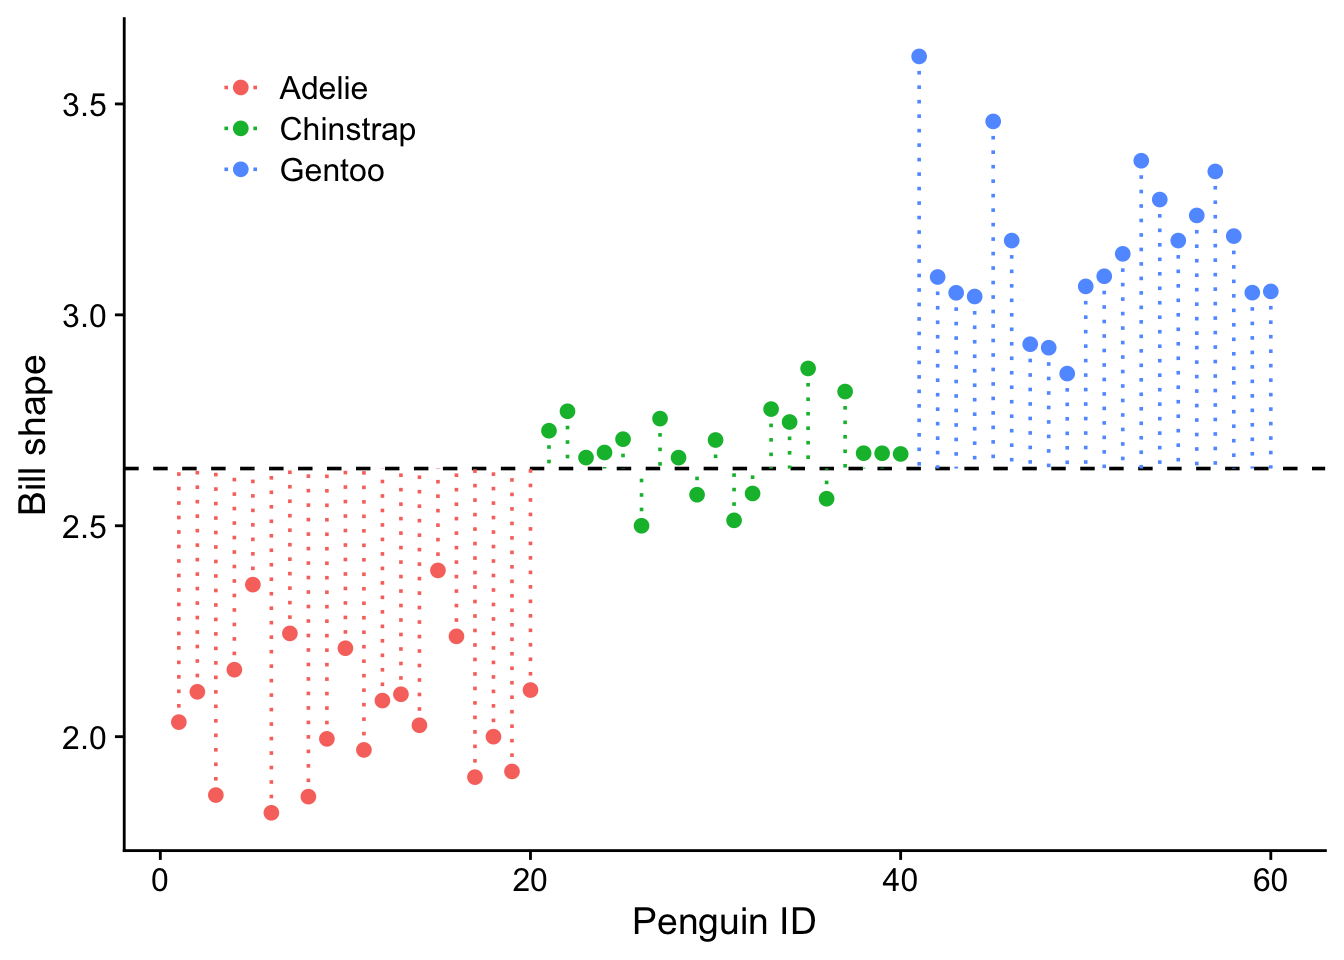
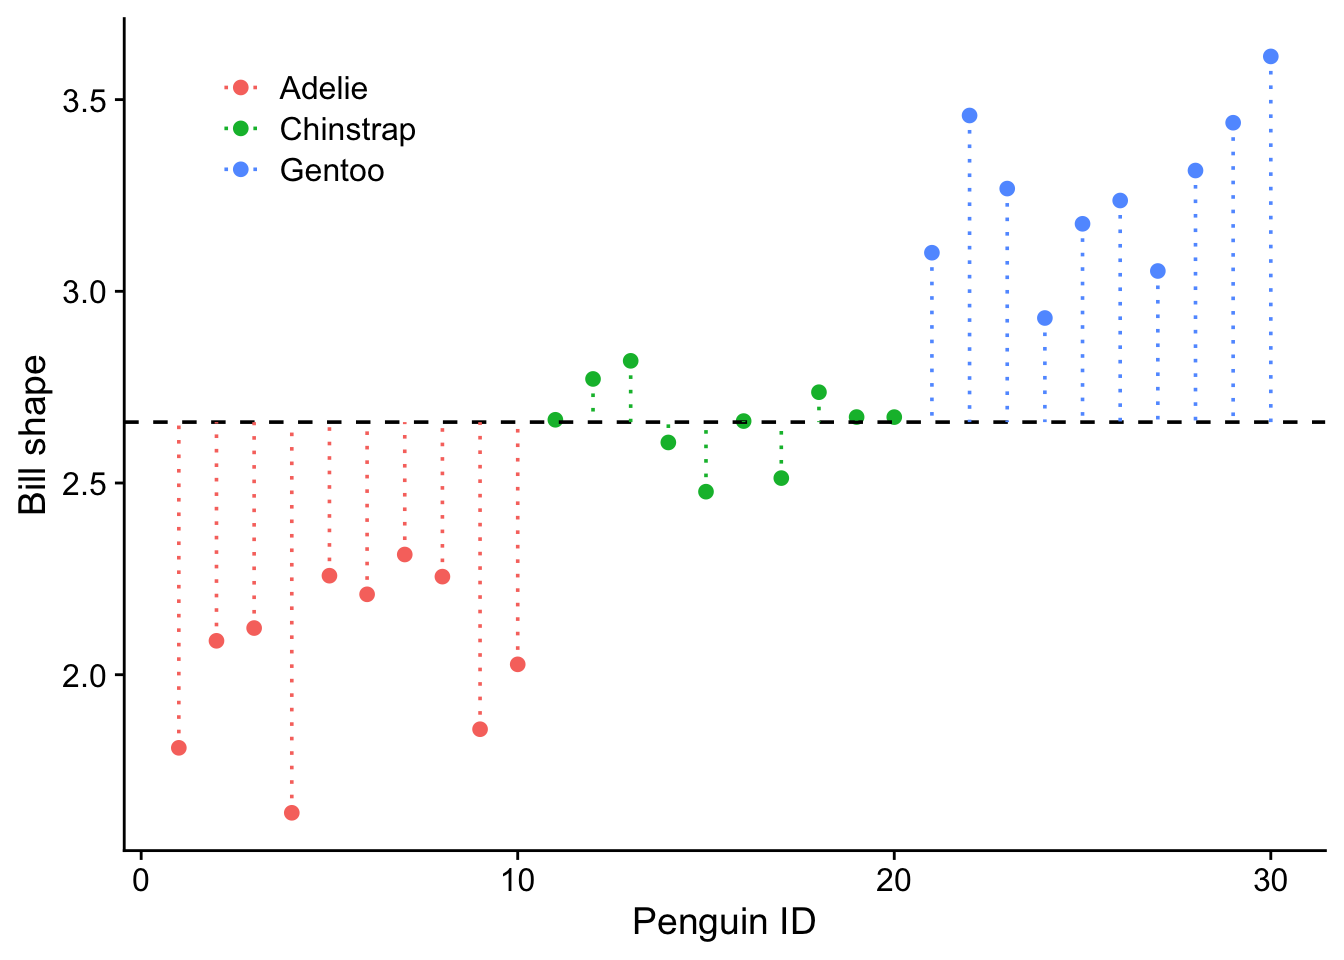
rebuild

diff --git a/docs/ANOVA_how_it_works_penguins.html b/docs/ANOVA_how_it_works_penguins.html
@@ -331,6 +331,7 @@ window.Quarto = {
   <li><a href="#partitioning-the-degrees-of-freedom" id="toc-partitioning-the-degrees-of-freedom" class="nav-link" data-scroll-target="#partitioning-the-degrees-of-freedom"><span class="header-section-number">5.5</span> Partitioning the degrees of freedom</a></li>
   <li><a href="#variances-per-degree-of-freedom-mean-squares" id="toc-variances-per-degree-of-freedom-mean-squares" class="nav-link" data-scroll-target="#variances-per-degree-of-freedom-mean-squares"><span class="header-section-number">5.6</span> Variances per degree of freedom: Mean Squares</a></li>
   <li><a href="#f-ratios" id="toc-f-ratios" class="nav-link" data-scroll-target="#f-ratios"><span class="header-section-number">5.7</span> <em>F</em>-ratios</a></li>
+  <li><a href="#what-does-the-anova-result-tell-us" id="toc-what-does-the-anova-result-tell-us" class="nav-link" data-scroll-target="#what-does-the-anova-result-tell-us"><span class="header-section-number">5.8</span> What does the ANOVA result tell us?</a></li>
   </ul>
 <div class="toc-actions"><ul><li><a href="https://github.com/mbh038/r4nqy/edit/main/ANOVA_how_it_works_penguins.qmd" class="toc-action"><i class="bi bi-github"></i>Edit this page</a></li></ul></div></nav>
     </div>
@@ -385,23 +386,23 @@ Figure&nbsp;5.1: The distribution of bill shape for each of the three penguin sp
 </section>
 <section id="summarise-the-data-calculate-means" class="level2" data-number="5.2">
 <h2 data-number="5.2" class="anchored" data-anchor-id="summarise-the-data-calculate-means"><span class="header-section-number">5.2</span> Summarise the data: calculate means</h2>
-<p><strong>First step</strong>: calculate the grand mean</p>
-<p>First we calculate the ‘<strong>grand mean</strong>’, the mean of the bill shapes across all penguins in the data set:</p>
+<p><strong>First step</strong>: calculate the <strong>grand mean</strong></p>
+<p>First we calculate the ‘grand mean’, the mean of the bill shapes across all penguins in the data set:</p>
 <div class="cell">
 <div class="cell-output cell-output-stdout">
-<pre><code>[1] 2.635666</code></pre>
+<pre><code>[1] 2.658853</code></pre>
 </div>
 </div>
-<p><strong>Second step</strong>: calculate the group means</p>
-<p>Next, we calculate the mean beak shape for each species - these are what we will call the <strong>group means</strong>.</p>
+<p><strong>Second step</strong>: calculate the <strong>group means</strong></p>
+<p>Next, we calculate the mean bill shape for each species - these are what we will call the group means.</p>
 <div class="cell">
 <div class="cell-output cell-output-stdout">
 <pre><code># A tibble: 3 × 5
   species       n pmean id_min id_max
   &lt;fct&gt;     &lt;int&gt; &lt;dbl&gt;  &lt;int&gt;  &lt;int&gt;
-1 Adelie       20  2.07      1     20
-2 Chinstrap    20  2.68     21     40
-3 Gentoo       20  3.16     41     60</code></pre>
+1 Adelie       10  2.06      1     10
+2 Chinstrap    10  2.66     11     20
+3 Gentoo       10  3.26     21     30</code></pre>
 </div>
 </div>
 </section>
@@ -411,12 +412,7 @@ Figure&nbsp;5.1: The distribution of bill shape for each of the three penguin sp
 <section id="sst-the-total-sum-of-squares" class="level3" data-number="5.3.1">
 <h3 data-number="5.3.1" class="anchored" data-anchor-id="sst-the-total-sum-of-squares"><span class="header-section-number">5.3.1</span> SST: the total sum of squares</h3>
 <p>FRom the deviations of each individual arounnd the grand mean we can calculate what we will call <strong>SST: the total sum of squares</strong>. This is the sum of the squared differences between each individual penguin bill shape and the grand mean. In this and other measures of variability we square the differences so that we do not distinguish between positive and negative deviations.</p>
-<p>SST is a measure of the total variability of the data set.</p>
-<div class="cell">
-<div class="cell-output cell-output-stdout">
-<pre><code>[1] 13.21999</code></pre>
-</div>
-</div>
+<p>SST is a measure of the total variability of the data set. For our penguins we find that SST = 8.147</p>
 <div class="cell">
 <div class="cell-output-display">
 <div id="fig-grand-mean" class="quarto-float quarto-figure quarto-figure-center anchored">
@@ -448,13 +444,13 @@ Figure&nbsp;5.2: The overall variability of the data (SST) is measured as the su
 <img src="ANOVA_how_it_works_penguins_files/figure-html/fig-SSE-SSG-plot-1.png" class="img-fluid figure-img" width="672">
 </div>
 <figcaption class="quarto-float-caption-bottom quarto-float-caption quarto-float-fig" id="fig-SSE-SSG-plot-caption-0ceaefa1-69ba-4598-a22c-09a6ac19f8ca">
-Figure&nbsp;5.3: a) Each species has a mean value for beak shape, shown by the three horizontal lines. Each individual penguin has a beak shape that differs from that by the length of the vertical dotted lines shown. When we square each of these lengths and then add up all these squares we get what we are calling here SSE: the error sum of squares. This is a measure of the variability between penguins of the same species. b) For each species, the mean beak shape differs from the grand mean by the length of the dotted lines shown. When we square and then sum these three lengths we get what we are calling here SSG: the squared sum of groups. This is a measure of the variability between penguins of different species.
+Figure&nbsp;5.3: a) Each species has a mean value for bill shape, shown by the three horizontal lines. Each individual penguin has a bill shape that differs from that by the length of the vertical dotted lines shown. When we square each of these lengths and then add up all these squares we get what we are calling here SSE: the error sum of squares. This is a measure of the variability between penguins of the same species. b) For each species, the mean bill shape differs from the grand mean by the length of the dotted lines shown. When we square and then sum these three lengths we get what we are calling here SSG: the squared sum of groups. This is a measure of the variability between penguins of different species.
 </figcaption>
 </figure>
 </div>
 </div>
 </div>
-<p>When the three species means are fitted, there is an obvious reduction in variability around the three means compared to that around the grand mean: SSE is less than SST, but it is not obvious if the species have had an effect on bill_shape.</p>
+<p>When the three species means are fitted, there is an obvious reduction in variability around the three means compared to that around the grand mean: SSE is less than SST, but it is not obvious if bill shape differs between the species.</p>
 <p>At what point do we decide if the amount of variation explained by fitting the means is significant? By this, we mean, “When is the variability between the group means greater than we would expect by chance alone?</p>
 <p>First, we note that SSE and SSG partition between them the total variability SST in the data:</p>
 </section>
@@ -471,19 +467,19 @@ Figure&nbsp;5.3: a) Each species has a mean value for beak shape, shown by the t
 <tbody>
 <tr class="odd">
 <td>SSE</td>
-<td>1.343</td>
+<td>0.936</td>
 </tr>
 <tr class="even">
 <td>SSG</td>
-<td>11.877</td>
+<td>7.212</td>
 </tr>
 <tr class="odd">
 <td>SST</td>
-<td>13.22</td>
+<td>8.147</td>
 </tr>
 <tr class="even">
 <td>SSE + SSG</td>
-<td>13.22 = SST</td>
+<td>8.148 = SST</td>
 </tr>
 </tbody>
 </table>
@@ -519,7 +515,29 @@ df(\text{SSG}) &amp;= n-k\\
 <p><strong>Group Mean Square</strong> (GMS) = SSG / <em>k</em> - 1. This is the variation per <em>df</em> between individuals of different species.</p>
 <p><strong>Error Mean Square</strong> (EMS) = SSE / <em>n</em> - <em>k</em>. This is the variation per <em>df</em> between individuals of the same species.</p>
 <p><strong>Total Mean Square</strong> (TMS) = SST / <em>n</em> - 1. This is the total variance per <em>df</em> of the dataset.</p>
-<p>Unlike the SS, the MS are not additive. That is, GMS + EMS <span class="math inline">\(\neq\)</span> TMS.</p>
+<p>Unlike the SS, the MS are not additive. That is, GMS + EMS <span class="math inline">\(\neq\)</span> TMS as we see in the table below where we list these values for our penguins sample:</p>
+<table class="caption-top table">
+<thead>
+<tr class="header">
+<th>Mean Square</th>
+<th>Value</th>
+</tr>
+</thead>
+<tbody>
+<tr class="odd">
+<td>GMS</td>
+<td>2.73</td>
+</tr>
+<tr class="even">
+<td>EMS</td>
+<td>0.0154</td>
+</tr>
+<tr class="odd">
+<td>TMS</td>
+<td>0.171</td>
+</tr>
+</tbody>
+</table>
 </section>
 <section id="f-ratios" class="level2" data-number="5.7">
 <h2 data-number="5.7" class="anchored" data-anchor-id="f-ratios"><span class="header-section-number">5.7</span> <em>F</em>-ratios</h2>
@@ -528,20 +546,25 @@ df(\text{SSG}) &amp;= n-k\\
 <p><span class="math display">\[
 F=\frac{\text{GMS}}{\text{EMS}}\approx1\quad{\text{No difference between groups}}
 \]</span></p>
-<p>We call this ratio the <strong><em>F</em>-ratio</strong>. This is the so-called ’test statistic that ANOVA calculates from your data. <em>F</em>-ratios can never be negative since they are the ratio of two mean square values, both of which must be non-negative, but there is no limit to how large they can be. In fact,</p>
+<p>We call this ratio the <strong><em>F</em>-ratio</strong>. This is the so-called ‘test statistic’ that ANOVA calculates from your data. <em>F</em>-ratios can never be negative since they are the ratio of two mean square values, both of which must be non-negative, but there is no limit to how large they can be. In fact,</p>
 <p><span class="math display">\[
 F = \frac{\text{GMS}}{\text{EMS}}\gt 1\quad{\text{Possible difference between groups}}
 \]</span></p>
 <p><span class="math display">\[
 F = \frac{\text{GMS}}{\text{EMS}}\gg 1\quad{\text{Probable difference between groups}}
 \]</span></p>
-<p>Even if the species were identical, the <em>F</em>-ratio is unlikely to be exactly 1 - it could by chance take a whole range of values. It runs out that <em>F</em>-ratios have a known distrivution, the <strong>F-distribution</strong>, which represents the range and likelihood of all possible <em>F</em> ratios under the null hypothesis. ie when the species were identical.</p>
-<p>The shape of the F distribution depends on the degrees of freedom of GMS and EMS, and we normally specify it by giving the values of each. Below we show F distributions for 2 and 27 degrees of freedom (ie 3 species, so <em>k</em> = 3, so the degrees of freedom of GMS = <em>k</em>-1 =2, and individuals per species, so <em>n</em> = 3 x 10 = 30, and hence the degrees of freedom of EMS = <em>n</em>-<em>k</em> = 30 - 3 = 27), and for 10 and 27 degrees of freedom.</p>
+<p>Even if the species were identical, the <em>F</em>-ratio is unlikely to be exactly 1 - it could by chance take a whole range of values. It turns out that <em>F</em>-ratios have a known distribution, the <strong>F-distribution</strong>, which represents the range and likelihood of all possible <em>F</em> ratios under the null hypothesis. ie when the species were identical.</p>
+<p>The shape of the F distribution depends on the degrees of freedom of GMS and EMS, and we normally specify it by giving the values of each. In <a href="#fig-f-pdfs" class="quarto-xref">Figure&nbsp;<span>5.4</span></a> below we show F distributions for 2 and 27 degrees of freedom (ie 3 species, so <em>k</em> = 3, so the degrees of freedom of GMS = <em>k</em>-1 = 2, and 10 individuals per species, so <em>n</em> = 3 x 10 = 30, and hence the degrees of freedom of EMS = <em>n</em>-<em>k</em> = 30 - 3 = 27), and for 10 and 27 degrees of freedom.</p>
 <div class="cell">
 <div class="cell-output-display">
-<div>
-<figure class="figure">
-<p><img src="ANOVA_how_it_works_penguins_files/figure-html/unnamed-chunk-5-1.png" class="img-fluid figure-img" width="672"></p>
+<div id="fig-f-pdfs" class="quarto-float quarto-figure quarto-figure-center anchored">
+<figure class="quarto-float quarto-float-fig figure">
+<div aria-describedby="fig-f-pdfs-caption-0ceaefa1-69ba-4598-a22c-09a6ac19f8ca">
+<img src="ANOVA_how_it_works_penguins_files/figure-html/fig-f-pdfs-1.png" class="img-fluid figure-img" width="672">
+</div>
+<figcaption class="quarto-float-caption-bottom quarto-float-caption quarto-float-fig" id="fig-f-pdfs-caption-0ceaefa1-69ba-4598-a22c-09a6ac19f8ca">
+Figure&nbsp;5.4: The F-distributions for (left) 2 and 27 degrees of freedom and (right) 10 and 27 degrees of freedom
+</figcaption>
 </figure>
 </div>
 </div>
@@ -550,6 +573,25 @@ F = \frac{\text{GMS}}{\text{EMS}}\gg 1\quad{\text{Probable difference between gr
 <p>Hence, the probability under the null hypothesis of getting an <em>F</em>-ratio as large or larger than the value we actually got is the area to the right of this <em>F</em>-ratio under the appropriate F distribution. We often call this probability the <em>p</em>-value. p for probability. p-values are the the probability of getting data as extreme (same <em>F</em>-ratio,) or more extreme (bigger <em>F</em>-ratio) as the data you got you got if the null hypothesis were true.</p>
 <p>If the species were very different, then the GMS would be much greater than the EMS and the <em>F</em>-ratio would be greater than one. However it can be quite large even when there are no differences between the levels (here, Adelie, Chinstrap and Gentoo) of a factor (here, species). So how do we decide when the size of the <em>F</em>-ratio is due to a real difference between the levels rather than to chance?</p>
 <p>Our <em>p</em>-value (the probability that the <em>F</em>-ratio would have been as large as it is or larger under the null hypothesis) represents the strength of evidence against the null hypothesis. The smaller it is, the stronger the evidence, and, as a pragmatic choice, only when it is less than 0.05 do we regard the evidence as strong enough to reject the null. Note though that even if we had inside knowledge that the null hypothesis was in fact true, we would still get an <em>F</em>-ratio that large or larger and thus a p-value less than or equal to 0.05 5% of the time.</p>
+<p>We find for our penguin data that the F ratio is 104</p>
+<p>If we look at the <em>F</em> distribution in the left-hand figure in <a href="#fig-f-pdfs" class="quarto-xref">Figure&nbsp;<span>5.4</span></a> the one that corresponds to our case, with 2 and 27 degrees of freedom, we see that it has already fallen to near zero by the time <em>F</em> is equal to 5 or 6. There is essentially zero area beneath the curve to the right of the much larger F value we found for our data, <em>F</em> = 104. That means there is essentially zero chance of getting an <em>F</em> value this big or bigger if the null hypothesis were true (ie the p-value is esentially zero), and so we can confidently reject the null hypothesis.</p>
+</section>
+<section id="what-does-the-anova-result-tell-us" class="level2" data-number="5.8">
+<h2 data-number="5.8" class="anchored" data-anchor-id="what-does-the-anova-result-tell-us"><span class="header-section-number">5.8</span> What does the ANOVA result tell us?</h2>
+<p>The null hypothesis of the ANOVA is that all the samples are drawn from populationswit the same mean. If the F-value is so large that we reject this null hypothesis, then we infer that at least two of the population means differ. We not learn from the ANOVA where the difference or differences lie.</p>
+<p>To find that out we typically need to continue the analysis with multiple pair-wise comparisons between the samples, taking care to control for the study-wide error rate.</p>
+<div class="cell">
+<div class="cell-output cell-output-stdout">
+<pre><code>Analysis of Variance Table
+
+Response: bill_shape
+          Df Sum Sq Mean Sq F value   Pr(&gt;F)    
+species    2 7.2117  3.6058  104.05 2.05e-13 ***
+Residuals 27 0.9357  0.0347                     
+---
+Signif. codes:  0 '***' 0.001 '**' 0.01 '*' 0.05 '.' 0.1 ' ' 1</code></pre>
+</div>
+</div>
 
 
 </section>

diff --git a/docs/correlation.html b/docs/correlation.html
@@ -502,13 +502,13 @@ window.Quarto = {
     Pearson's product-moment correlation
 
 data:  x and y
-t = 9.2126, df = 48, p-value = 3.459e-12
+t = 9.2164, df = 48, p-value = 3.415e-12
 alternative hypothesis: true correlation is not equal to 0
 95 percent confidence interval:
- 0.6698981 0.8814739
+ 0.6700793 0.8815471
 sample estimates:
       cor 
-0.7992197 </code></pre>
+0.7993384 </code></pre>
 </div>
 </div>
 <p>There are different ways to calculate the correlation coefficient. Which of them is appropriate depends mainly on the type of data, and if they are numeric, whether they are normally distributed. If they are, then we use the Pearson method. If they are not, for example because they are ordinal data, then we use the Spearman’s Rank method and write <em>method=“spearman”</em> instead. In this case we can relax the requirement that there is a linear association between the data sets, but there does still need to be a monotonic relationship.</p>
@@ -674,7 +674,7 @@ sample estimates:
 </div>
 </div>
 </div>
-<p>The outlier in the left-hand figure above brings the correlation coefficient down to 0.08, which is close to zero. The correlation coefficient in the right-hand figure is similarly small at 0.047, despite that there is a strong association between the <em>x</em> and <em>y</em> data. The reason is that the association is non-linear.</p>
+<p>The outlier in the left-hand figure above brings the correlation coefficient down to 0.08, which is close to zero. The correlation coefficient in the right-hand figure is similarly small at -0.173, despite that there is a strong association between the <em>x</em> and <em>y</em> data. The reason is that the association is non-linear.</p>
 </section>
 <section id="spearmans-rank-correlation-coefficient-rsp" class="level4" data-number="9.1.6.2">
 <h4 data-number="9.1.6.2" class="anchored" data-anchor-id="spearmans-rank-correlation-coefficient-rsp"><span class="header-section-number">9.1.6.2</span> Spearman’s rank correlation coefficient <em>r</em><sub>Sp</sub></h4>

diff --git a/docs/tests_for_difference_two_levels.html b/docs/tests_for_difference_two_levels.html
@@ -680,7 +680,7 @@ Figure&nbsp;4.3: The data points show mean values, the error bars show plus or m
     Shapiro-Wilk normality test
 
 data:  example1
-W = 0.99564, p-value = 0.1788</code></pre>
+W = 0.99672, p-value = 0.4068</code></pre>
 </div>
 <div class="sourceCode cell-code" id="cb11"><pre class="sourceCode r code-with-copy"><code class="sourceCode r"><span id="cb11-1"><a href="#cb11-1" aria-hidden="true" tabindex="-1"></a><span class="fu">shapiro.test</span>(example2) <span class="co"># 100 samples drawn from a uniformly (ie NOT normally) distributed population</span></span></code><button title="Copy to Clipboard" class="code-copy-button"><i class="bi"></i></button></pre></div>
 <div class="cell-output cell-output-stdout">
@@ -688,7 +688,7 @@ W = 0.99564, p-value = 0.1788</code></pre>
     Shapiro-Wilk normality test
 
 data:  example2
-W = 0.96304, p-value = 6.859e-10</code></pre>
+W = 0.95383, p-value = 2.151e-11</code></pre>
 </div>
 </div>
 <p>For the examples above, we see that Shapiro-Wilk test gave a high <em>p</em>-value for the data that we knew <em>were</em> drawn from a normal distribution, and a very low <em>p</em>-value for the data that we knew were not.</p>

diff --git a/docs/power-analysis.html b/docs/power-analysis.html
@@ -402,7 +402,7 @@ pre > code.sourceCode > span > a:first-child::before { text-decoration: underlin
 <div class="cell">
 <div class="sourceCode cell-code" id="cb3"><pre class="sourceCode r code-with-copy"><code class="sourceCode r"><span id="cb3-1"><a href="#cb3-1" aria-hidden="true" tabindex="-1"></a><span class="fu">t.test</span>(mass<span class="sc">~</span>treatment,<span class="at">data=</span>trial_data)<span class="sc">$</span>p.value</span></code><button title="Copy to Clipboard" class="code-copy-button"><i class="bi"></i></button></pre></div>
 <div class="cell-output cell-output-stdout">
-<pre><code>[1] 0.0001307127</code></pre>
+<pre><code>[1] 8.779158e-05</code></pre>
 </div>
 </div>
 <p>Wht we want to know is: what is the chance that we would get the ‘correct’ result, which in our case is that there <em>is</em> a difference and which would be indicated to us by the p-value being less than our chosen significance level (for brevity’s sake, let’s just assume from now on that we chose this to be 0.05), so that we (correctly) reject the null hypothesis of there being no difference.</p>
